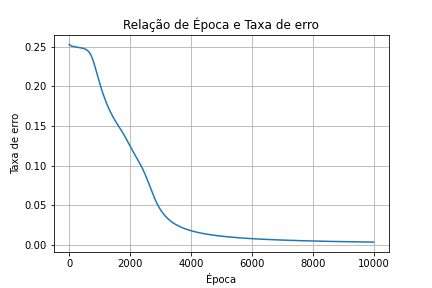
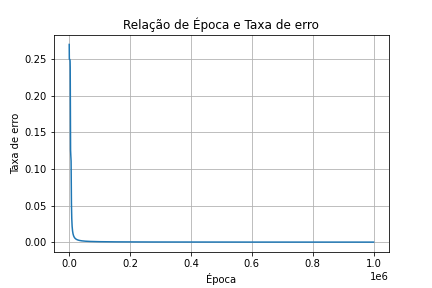
implementando buscar dicotomica

Changed region(s): [[0.0602, 0.125, 0.9028, 0.9688]]

diff --git a/tecnicas_otimizacao/gradiente_conjugado.py b/tecnicas_otimizacao/gradiente_conjugado.py
@@ -1,0 +1,82 @@
+"""
+
+@author: Livio Lopes
+"""
+import numpy as np
+import matplotlib.pyplot as plt
+
+
+# Função objetivo minF(x1,x2)=(x1-2)⁴+(x1-2*x2)²
+def func(a,b):
+	return ((a-2)**4 + (a-2*b)**2)
+
+
+# Plotando grafico em 3D de uma função com duas variaveis
+def plotting_function(a,b,function):
+    a,b = np.meshgrid(a,b)
+    c = function(a, b)
+    fig = plt.figure()
+    ax = fig.gca(projection='3d')
+    ax.plot_surface(a,b,c)
+    fig.savefig("plotting_function.png")
+    plt.show()
+    
+    
+"""
+A procura irá identificar o intervalor onde está
+o minimo local, e ponto minimo local
+""" 
+def dichotomous_search(function,variable ='',ak=-1.0,bk=1.0,E= 1.0,l =2.0):
+    loop = True
+    while loop:
+        # Verifica se o limiar foi alcançado
+        if (bk-ak)< l:
+            loop = False
+            return (ak,bk), (ak+bk)/2
+        #Calcula ponto médio e o desloca para a esquerda
+        y = (ak+bk)/2 - E
+        #Calula ponto médio e o desloca para a direita
+        u = (ak+bk)/2 + E
+        # Se estivermos avaliando uma função do tipo x, f(x)
+        if variable == '':
+            fy = function(y)
+            fu = function(u)
+            #print(fy,fu)
+        # Se estivermos avaliando uma função do tipo x1,x2,f(x1,x2)   
+        if variable == 'x1':
+            fy = function(y,0)
+            fu = function(u,0)
+            #print(fy,fu)                        
+        if variable == 'x2':
+            fy = function(0,y)
+            fu = function(0,u)  
+            #print(fy,fu)
+        # Se o ponto de mínimo não está entre [ak,y], então ak = y
+        if fy>fu:
+            ak = y
+        # Se o ponto de mínimo não está entre [u,bk], então bk = u
+        if fy<fu:
+            bk = u
+
+# Inicio da sequencia
+start = -100.0
+# Fim da sequencia
+end = 100.0
+# Quantidade de amostras da sequência
+variation = 1
+# Criando vetor x1
+x1 = np.arange(start,end,variation)
+# Criando vetor x2
+x2 = np.arange(start,end,variation)
+z = func(x1,x2)
+
+plotting_function(x1, x2, func)
+
+#Encontrando o intervalo e o ponto em relação ao variavel em questão
+interspace_x1, point_x1 = dichotomous_search(func,variable='x1',ak=-50.0,bk=60.0,E=0.25,l=1.0)
+interspace_x2, point_x2 = dichotomous_search(func,variable='x2',ak=-50.0,bk=60.0,E=0.25,l=1.0)
+
+print(point_x1,point_x2,func(point_x1, point_x2))
+
+
+

diff --git a/rna/rna_mlp/rna_mlp.py b/rna/rna_mlp/rna_mlp.py
@@ -24,10 +24,9 @@ import matplotlib.pyplot as plt
 def sigmoid(valor):
     return 1/(1+ np.exp(-valor))
 
-# Direção do Gradiente, critério de parada
+# Derivada da função ativação
 def sigmoidDerivate(sig):
     return sig*(1-sig)
-
 
 
 # Entradas para o operador lógico XOR
@@ -55,7 +54,7 @@ w1 = 2*np.random.random((neuro_input,neuro_hiden))-1
 w2 = 2*np.random.random((neuro_hiden,neuro_output))-1
 
 # Épocas/ Quantidade de treinos
-time_training = 10000
+time_training = 1000000
 
 # Momento
 momentum =1 
@@ -108,7 +107,7 @@ for i in range(time_training):
     w1_new = input_layer_tranposed.dot(hiden_delta)
     w1 = (w1*momentum)+(w1_new*learning_rate)
     
-# Plotando grafico  
+# Plotando grafico de linha
 fig, ax = plt.subplots()
 ax.plot(list_time_training, list_mse)  
 ax.set(xlabel='Época', ylabel='Taxa de erro',
@@ -116,3 +115,6 @@ ax.set(xlabel='Época', ylabel='Taxa de erro',
 ax.grid()
 fig.savefig("test.png")
 plt.show()
+
+
+
